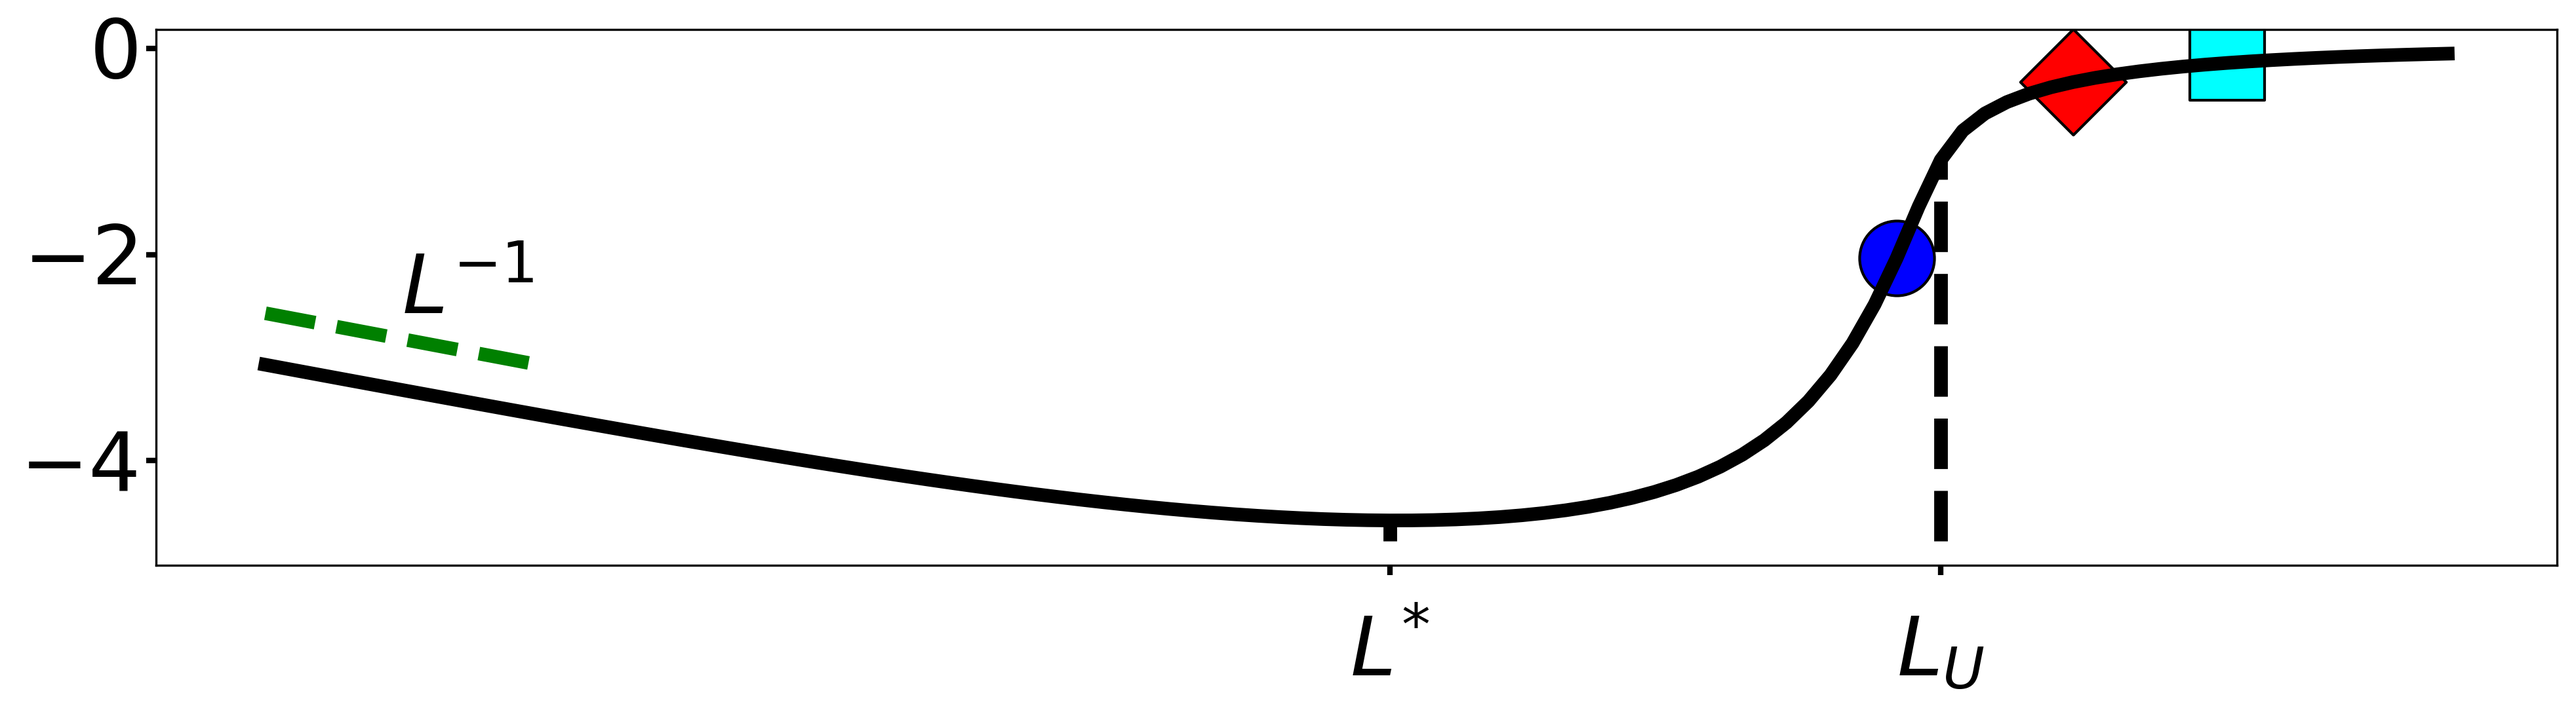
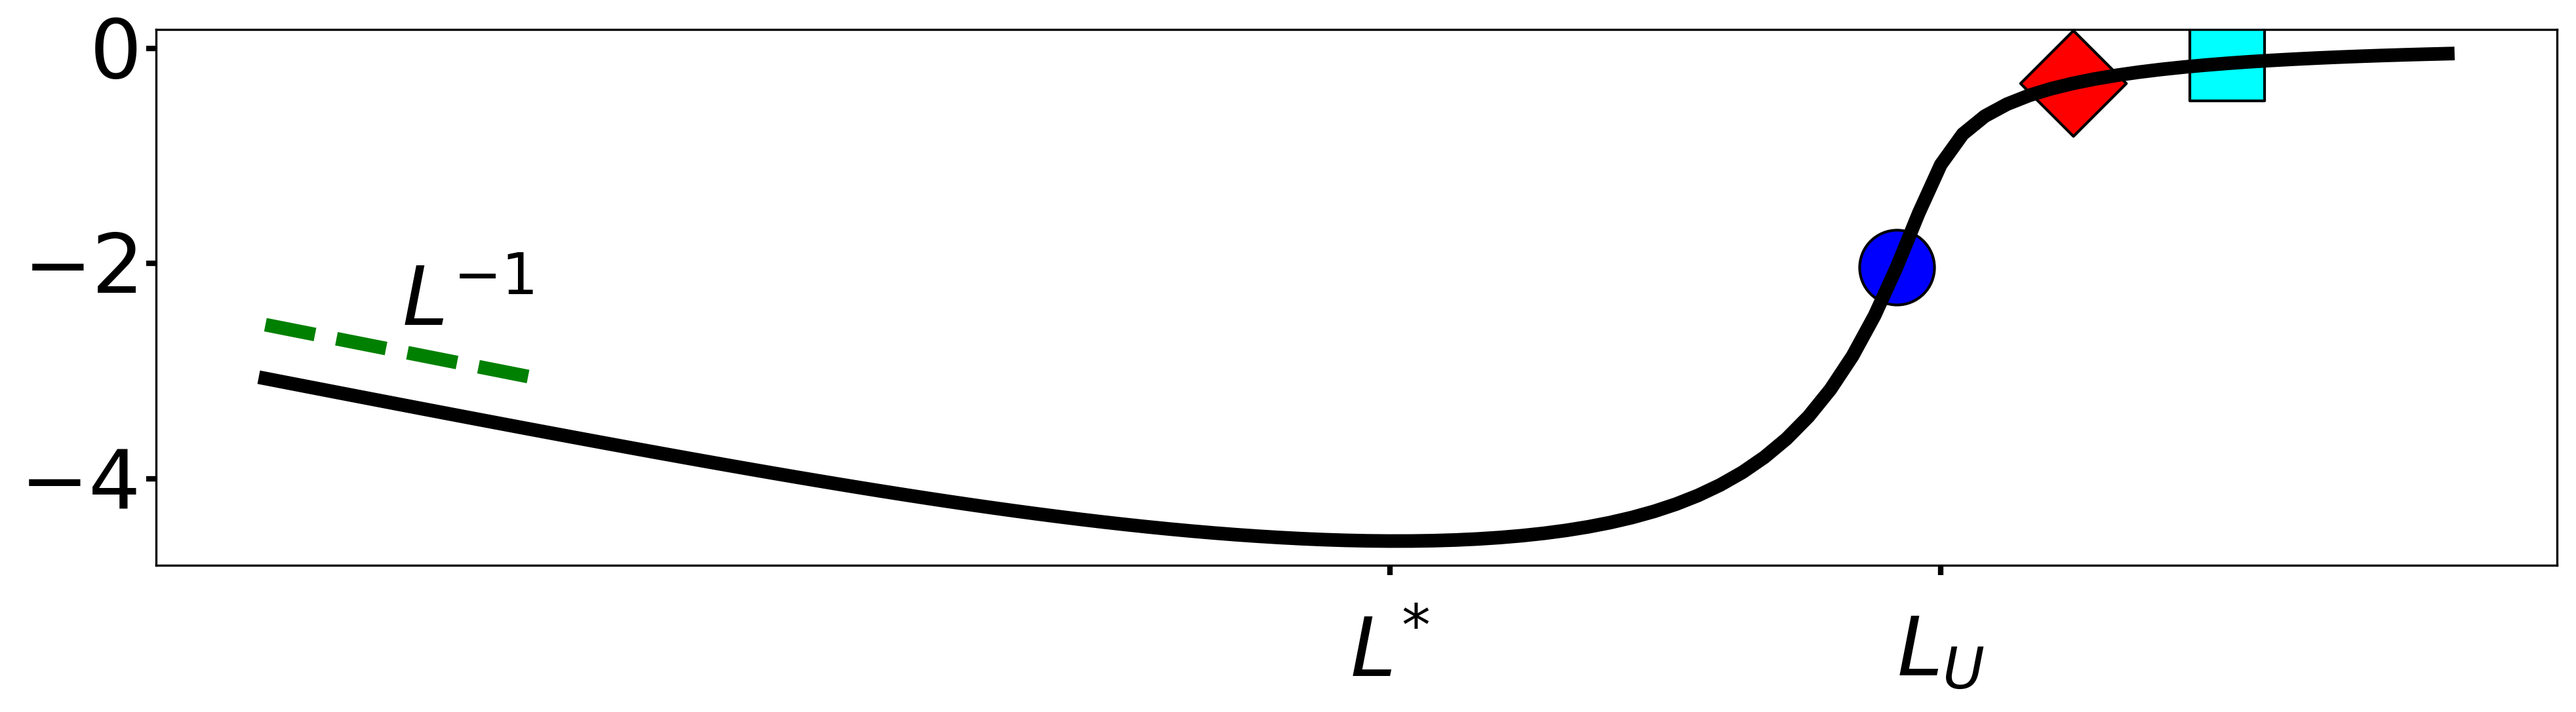
Remove the horozontal lines from fig 2a

diff --git a/Simulations/Single/Global_Minimum/Plotting.py b/Simulations/Single/Global_Minimum/Plotting.py
@@ -398,7 +398,7 @@ plt.scatter([np.log10(LList[index])],
         edgecolors='black')
 
 
-
+"""
 #Dashed line for the location of L^* and LU
 index = np.argmin(dRList/LList)
 plt.plot([np.log10(LList[index]),np.log10(LList[index])],
@@ -412,7 +412,7 @@ plt.plot([np.log10(LList[index]),np.log10(LList[index])],
         [min(np.log10(dRList/LList))-0.2,np.log10(dRList/LList)[index]],
         '--k',
         linewidth = 5)
-
+"""
 #Formatting
 ax.set_xticks([MindR,MinCurvature])
 ax.set_xticklabels(
